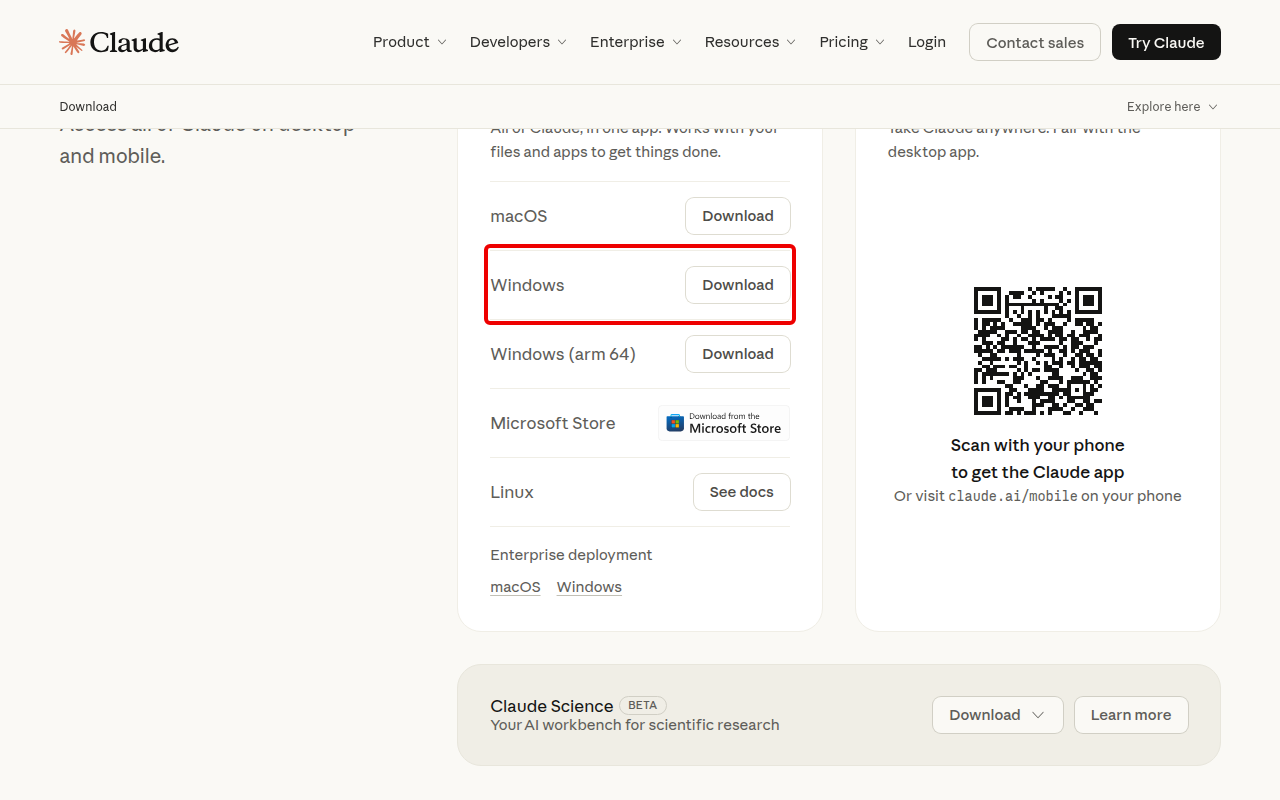
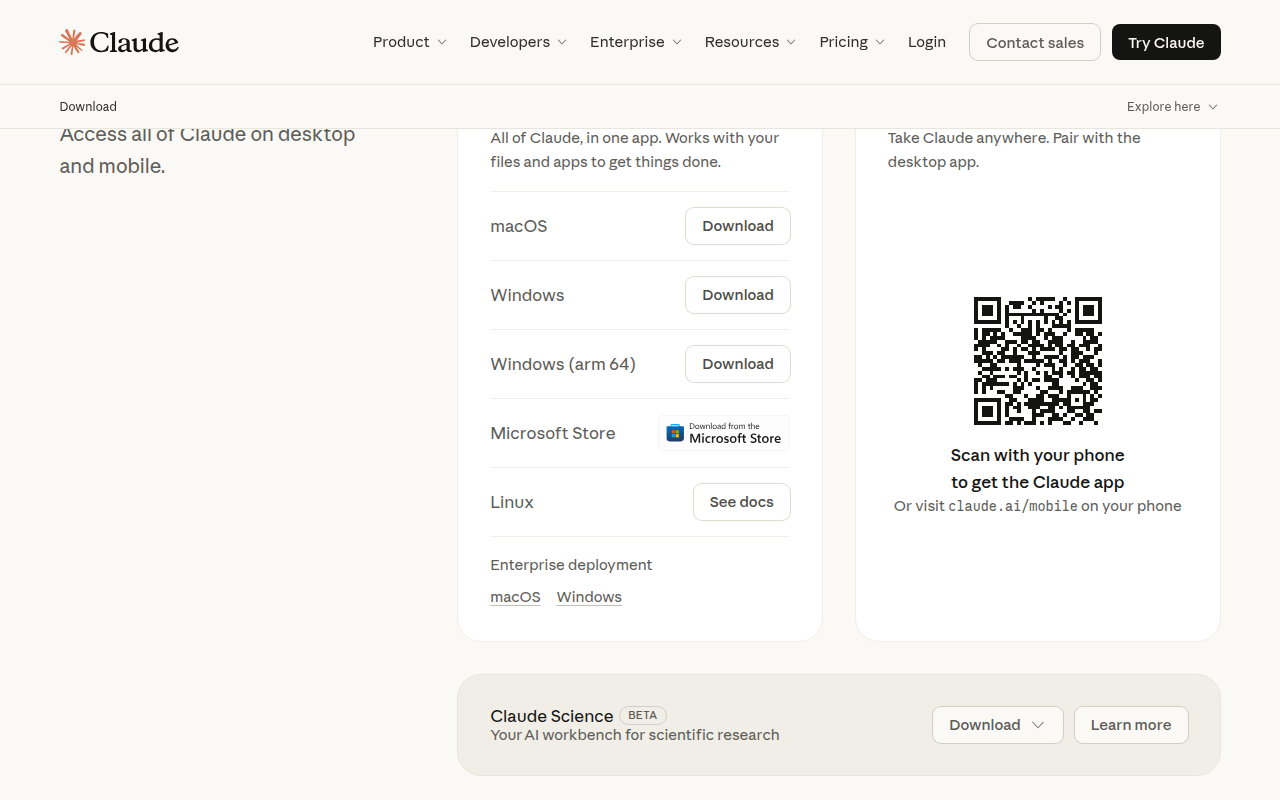
安裝教學訂閱改寫月繳 20 美元並說明原因，下載句與兩張截圖更新

diff --git a/blog-posts/2026-10-29-claude-code-install/body_32_claude-code-install.orig3.html b/blog-posts/2026-10-29-claude-code-install/body_32_claude-code-install.orig3.html
@@ -1,0 +1,81 @@
+<h2 id="三種裝法怎麼選">三種裝法怎麼選</h2>
+<p>Claude Code 要 Pro 以上的付費方案才能用，Claude 免費版不含。三種裝法挑一種就好，看你平常怎麼工作：</p>
+<ul>
+<li>不想打指令：選桌面版，全程不用打指令。</li>
+<li>平常用 VS Code：選擴充套件，邊做邊看程式碼。</li>
+<li>習慣在終端機工作：選 CLI（終端機畫面），裝好直接輸入 <code>claude</code>。</li>
+</ul>
+<p>Windows 和 Mac 都能裝。電腦要 Windows 10（1809 版）以上或 macOS 13 以上，記憶體 4 GB 以上。<a href="https://code.claude.com/docs/en/setup">Claude Code 官方安裝說明</a></p>
+<p>安裝中途卡住，看文末<a href="#安裝卡住怎麼辦">安裝卡住怎麼辦</a>。</p>
+<h2 id="第一步訂閱-claude-pro">第一步：訂閱 Claude Pro</h2>
+<p>到 <a href="https://claude.com/pricing">Claude 官方價格頁</a>，選紅框標示的 <strong>Pro</strong>。發文當下月繳 20 美元，年繳平均每月 17 美元（一次付 200 美元）。用量不夠時再升級 Max，Team、Enterprise 方案也能用 Claude Code。</p>
+<p><img src="/images/blog/claude-code-install/01-claude-pricing-pro.png" alt="在 Claude 官方價格頁選擇紅框標示的 Pro 方案"></p>
+<h2 id="第二步安裝-claude-code三選一">第二步：安裝 Claude Code（三選一）</h2>
+<h3 id="桌面版">桌面版</h3>
+<ol>
+<li>到 <a href="https://claude.com/download">Claude 下載頁</a>，Windows 按紅框標示那一列的 <strong>Download</strong>；Mac 按 macOS 那一列。Windows 筆電是 ARM 處理器的，改按 Windows (arm 64)。</li>
+<li>執行下載的安裝檔。Windows 從開始選單、Mac 從「應用程式」資料夾開啟 Claude，登入你剛訂閱的帳號。</li>
+<li>點側邊欄上方的 <strong>Code</strong> 分頁。跳出升級提示，代表這個帳號還沒有付費方案。</li>
+<li>在輸入框下方的環境選單選 Local 底下第一個，再按旁邊的資料夾按鈕，選 Open folder… 開啟你的專案資料夾。</li>
+</ol>
+<p><img src="/images/blog/claude-code-install/02-claude-download-windows.png" alt="在 Claude 下載頁按下紅框標示的 Windows Download"></p>
+<p>桌面版已經包含 Claude Code，不用另外裝 Node.js 或 CLI 版。想在終端機輸入 <code>claude</code>，要再照下面的 CLI 裝法裝一次。<a href="https://code.claude.com/docs/en/desktop-quickstart">官方桌面版說明</a></p>
+<h3 id="vs-code-擴充套件">VS Code 擴充套件</h3>
+<p>VS Code 要 1.94.0 以上，還沒裝 VS Code 的話，先照 <a href="/blog/codex-windows-wsl-install/">Codex 安裝教學（上）的第一步</a>裝好。</p>
+<ol>
+<li>在 VS Code 按 <code>Ctrl + Shift + X</code>（Mac 為 <code>Cmd + Shift + X</code>）打開擴充套件，搜尋 <code>Claude Code</code>。</li>
+<li>確認名稱是 Claude Code for VS Code、發行者是 <strong>Anthropic</strong> 而且有藍色驗證勾勾，再按 Install。先確認發行者，才不會裝到別人做的套件。</li>
+<li>點左側活動列的 Claude Code 圖示打開面板，按 Sign in，在瀏覽器完成授權。</li>
+</ol>
+<p><img src="/images/blog/claude-code-install/03-vscode-marketplace-claude-code.png" alt="在擴充套件商店確認紅框標示的名稱與發行者 Anthropic"></p>
+<p>擴充套件自己帶一份 Claude Code，只給聊天面板用。想在 VS Code 的終端機輸入 <code>claude</code>，一樣要另外照下面的 CLI 裝法裝。<a href="https://code.claude.com/docs/en/vs-code">官方 VS Code 說明</a></p>
+<h3 id="cli終端機畫面">CLI（終端機畫面）</h3>
+<p>Windows 開 Windows PowerShell（不要選後面有 x86 的那個），貼上：</p>
+<pre data-code-kind="terminal" data-code-label="終端機"><code class="language-powershell">irm https://claude.ai/install.ps1 | iex
+</code></pre>
+<p>習慣用命令提示字元（CMD）的話，改貼這行：</p>
+<pre data-code-kind="terminal" data-code-label="終端機"><code class="language-bash">curl -fsSL https://claude.ai/install.cmd -o install.cmd &amp;&amp; install.cmd &amp;&amp; del install.cmd
+</code></pre>
+<p>Mac 開「終端機」App，貼上：</p>
+<pre data-code-kind="terminal" data-code-label="終端機"><code class="language-bash">curl -fsSL https://claude.ai/install.sh | bash
+</code></pre>
+<p>不用系統管理員權限。下載時畫面不會顯示進度，等它跑完就好。這種裝法會在背景自動更新，之後不用自己升級。</p>
+<p>裝完<strong>關掉視窗、開一個新的終端機</strong>，輸入：</p>
+<pre data-code-kind="terminal" data-code-label="終端機"><code class="language-bash">claude --version
+</code></pre>
+<p>看到版本號就是裝好了，例如：</p>
+<pre data-code-kind="output"><code>2.1.312 (Claude Code)
+</code></pre>
+<p>出現「找不到 claude」之類的訊息，照文末<a href="#安裝卡住怎麼辦">安裝卡住怎麼辦</a>，把錯誤貼給 AI。</p>
+<h2 id="第三步啟動並登入">第三步：啟動並登入</h2>
+<p>桌面版和 VS Code 擴充套件在上一步已經登入，可以跳過這一步。</p>
+<p>CLI 版要先進到專案資料夾再啟動，Claude Code 才讀得到你的檔案。資料夾名稱換成你自己的：</p>
+<pre data-code-kind="terminal" data-code-label="終端機"><code class="language-bash">cd 你的專案資料夾
+claude
+</code></pre>
+<p>第一次啟動會自動開瀏覽器，用訂閱 Pro 的帳號登入、按授權，回到終端機就能開始輸入需求。</p>
+<ul>
+<li>瀏覽器沒有自己打開：在終端機按 <code>c</code> 複製登入網址，貼到瀏覽器。</li>
+<li>瀏覽器顯示一串登入碼、沒有跳回來：把登入碼貼回終端機 <code>Paste code here if prompted</code> 的地方。在 WSL 裡登入常遇到這種情況。</li>
+</ul>
+<p>之後要換帳號，在 Claude Code 裡輸入：</p>
+<pre data-code-kind="agent" data-code-label="對 AI Agent 輸入"><code class="language-agent">/login
+</code></pre>
+<p><a href="https://code.claude.com/docs/en/authentication">官方登入說明</a></p>
+<h2 id="選用git-for-windows">選用：Git for Windows</h2>
+<p>官方建議 Windows 裝 <a href="https://git-scm.com/downloads/win">Git for Windows</a>，但不是必要。裝了，Claude Code 能用 Git Bash 執行指令，有些功能要靠它；沒裝，它改用 PowerShell 執行指令。Mac 不用裝。</p>
+<p>Windows 想用 Linux 環境開發，可以改在 WSL 裡用 CLI 裝法安裝，WSL 的裝法看 <a href="/blog/codex-cli-wsl2-windows/">Codex 安裝教學（下）：Windows 版 Codex CLI 與 WSL2 進階安裝</a>，在 WSL 裡就不需要 Git for Windows。</p>
+<h2 id="安裝卡住怎麼辦">安裝卡住怎麼辦？</h2>
+<p>把錯誤訊息貼給 Claude 或 ChatGPT 這類 AI，請它幫你看。複製下面這段，括號裡的換成你的情況：</p>
+<pre data-code-kind="prompt" data-code-label="提示詞"><code class="language-prompt">我在安裝 Claude Code 時卡住了，請幫我排除。
+安裝教學：https://aixwang.dev/blog/claude-code-install/
+作業系統：（Windows 10、Windows 11 或 macOS）
+安裝方式：（桌面版、VS Code 擴充套件或 CLI）
+做到哪一步：（寫你卡在哪裡）
+（在這裡貼上完整錯誤訊息）
+</code></pre>
+<p>錯誤訊息要貼完整原文，不要只寫「安裝失敗」。在終端機或安裝視窗選取整段文字複製；複製不了就截圖整個視窗，連同這段提示詞一起傳給 AI。</p>
+<p>看不出原因，就在終端機輸入 <code>claude doctor</code>，它會檢查安裝和設定、列出問題與建議的修法，把結果整段一起貼給 AI。<a href="https://code.claude.com/docs/en/troubleshoot-install">官方安裝問題排除</a></p>
+<p>想知道一對一課程會教什麼，看<a href="/blog/vibecoding-tutorial/">Vibecoding 一對一教學：Claude Code 安裝、開發、除錯、測試、部署都能自動化</a>。</p>
+<p>安裝過程卡住了？加 LINE 把錯誤訊息貼給我，簡單問題免費幫你看。</p>
+<p>我平常的工作是全職接案做客製系統開發，代表案例是<a href="/blog/math-teacher-question-bank/">補習班數學題庫系統</a>；想把手上重複的工作做成系統，可以看<a href="https://service.aixwang.dev/services/development/">客製系統開發服務</a>。</p>

diff --git a/blog-posts/2026-10-29-claude-code-install/body.html b/blog-posts/2026-10-29-claude-code-install/body.html
@@ -8,17 +8,17 @@
 <p>Windows 和 Mac 都能裝。電腦要 Windows 10（1809 版）以上或 macOS 13 以上，記憶體 4 GB 以上。<a href="https://code.claude.com/docs/en/setup">Claude Code 官方安裝說明</a></p>
 <p>安裝中途卡住，看文末<a href="#安裝卡住怎麼辦">安裝卡住怎麼辦</a>。</p>
 <h2 id="第一步訂閱-claude-pro">第一步：訂閱 Claude Pro</h2>
-<p>到 <a href="https://claude.com/pricing">Claude 官方價格頁</a>，選紅框標示的 <strong>Pro</strong>。發文當下月繳 20 美元，年繳平均每月 17 美元（一次付 200 美元）。用量不夠時再升級 Max，Team、Enterprise 方案也能用 Claude Code。</p>
+<p>到 <a href="https://claude.com/pricing">Claude 官方價格頁</a>，選紅框標示的 <strong>Pro</strong>，訂閱時選月繳，每月 20 美元。AI 工具汰換率很高，隨時會出現更好用的，月繳才不會被綁住。用量不夠時再升級 Max，Team、Enterprise 方案也能用 Claude Code。</p>
 <p><img src="/images/blog/claude-code-install/01-claude-pricing-pro.png" alt="在 Claude 官方價格頁選擇紅框標示的 Pro 方案"></p>
 <h2 id="第二步安裝-claude-code三選一">第二步：安裝 Claude Code（三選一）</h2>
 <h3 id="桌面版">桌面版</h3>
 <ol>
-<li>到 <a href="https://claude.com/download">Claude 下載頁</a>，Windows 按紅框標示那一列的 <strong>Download</strong>；Mac 按 macOS 那一列。Windows 筆電是 ARM 處理器的，改按 Windows (arm 64)。</li>
+<li>到 <a href="https://claude.com/download">Claude 下載頁</a>，選擇適合你的作業系統，按 <strong>Download</strong>。</li>
 <li>執行下載的安裝檔。Windows 從開始選單、Mac 從「應用程式」資料夾開啟 Claude，登入你剛訂閱的帳號。</li>
 <li>點側邊欄上方的 <strong>Code</strong> 分頁。跳出升級提示，代表這個帳號還沒有付費方案。</li>
 <li>在輸入框下方的環境選單選 Local 底下第一個，再按旁邊的資料夾按鈕，選 Open folder… 開啟你的專案資料夾。</li>
 </ol>
-<p><img src="/images/blog/claude-code-install/02-claude-download-windows.png" alt="在 Claude 下載頁按下紅框標示的 Windows Download"></p>
+<p><img src="/images/blog/claude-code-install/02-claude-download-windows.png" alt="在 Claude 下載頁選擇作業系統並按 Download"></p>
 <p>桌面版已經包含 Claude Code，不用另外裝 Node.js 或 CLI 版。想在終端機輸入 <code>claude</code>，要再照下面的 CLI 裝法裝一次。<a href="https://code.claude.com/docs/en/desktop-quickstart">官方桌面版說明</a></p>
 <h3 id="vs-code-擴充套件">VS Code 擴充套件</h3>
 <p>VS Code 要 1.94.0 以上，還沒裝 VS Code 的話，先照 <a href="/blog/codex-windows-wsl-install/">Codex 安裝教學（上）的第一步</a>裝好。</p>
